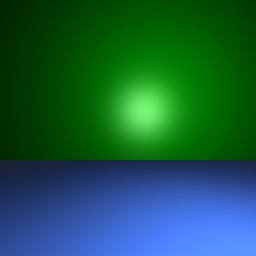
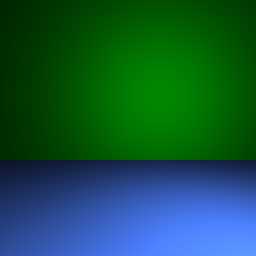
Nir's Update change and Scene 6

Changed region(s): [[0.4062, 0.2812, 0.7188, 0.5938]]

diff --git a/Exercise3/hw3.py b/Exercise3/hw3.py
@@ -40,29 +40,39 @@ def get_color(ray, ambient, obj, hitP, lights, objects, max_depth, level):
     sigma = 0
     normal = None
     if isinstance(obj, Sphere):
-        normal = normalize(hitP - obj.center)
+        vector_a = hitP - obj.center
+        normal = normalize(vector_a)
     else:
         normal = obj.normal
 
-    hitP = hitP + 0.01 * normal
-    for light in lights:
-        light_ray = light.get_light_ray(hitP)
-        I_L = light.get_intensity(hitP)
-        K_D = obj.diffuse
-        K_S = obj.specular
-        N = normal
-        L = light.get_light_ray(hitP).direction
-        V = normalize(ray.origin - hitP)
-        L_R = reflected(L, N)
-        s_j = 1
-        if light_ray.nearest_intersected_object(objects):
-            min_distance, nearest_object = light_ray.nearest_intersected_object(objects)
-            s_j = calculate_s_j(ray, hitP, min_distance, nearest_object)
-        sigma = sigma + s_j * ((K_D * I_L * np.dot(N, L)) + (K_S * I_L * (np.dot(V, L_R) ** (obj.shininess / 10))))
 
-    I_amb = ambient
-    K_A = obj.ambient
-    color = K_A * I_amb + sigma
+    calacNormalScal = 0.01 * normal
+    hitP = hitP + calacNormalScal
+
+    for light in lights:
+        light_Ray = light.get_light_ray(hitP)
+        Intensity_L = light.get_intensity(hitP)
+        K_Diffuse = obj.diffuse
+        K_Specular = obj.specular
+        Norm = normal
+        Ligh = light.get_light_ray(hitP).direction
+        VectorPreNormilized = ray.origin - hitP
+        VectorNormalized = normalize(VectorPreNormilized)
+        L_Reflected = reflected(Ligh, Norm)
+        s_j = 1
+        if light_Ray.nearest_intersected_object(objects):
+            min_distance, nearest_object = light_Ray.nearest_intersected_object(objects)
+            s_j = calculate_s_j(ray, hitP, min_distance, nearest_object)
+        calc1 = (K_Diffuse * Intensity_L * np.dot(Norm, Ligh))
+        calc2 = (K_Specular * Intensity_L * (np.dot(VectorNormalized, L_Reflected)))
+        calc3 = (obj.shininess / 10)
+        sigma = sigma + s_j * (calc1 + calc2 ** calc3)
+
+
+    I_ambient = ambient
+    K_ambient = obj.ambient
+    ambientMulti = K_ambient * I_ambient
+    color = ambientMulti+ sigma
 
     level = level + 1
     if level > max_depth:
@@ -70,26 +80,34 @@ def get_color(ray, ambient, obj, hitP, lights, objects, max_depth, level):
 
     # reflection
     # construct new_ray
-    new_direction = reflected(ray.direction, normal)
-    reflected_ray = Ray(hitP, new_direction)
+    reflected_ray = Ray(hitP, reflected(ray.direction, normal))
     # construct new hitP
     if reflected_ray.nearest_intersected_object(objects):
         min_distance, nearest_object = reflected_ray.nearest_intersected_object(objects)
-        new_hitP = reflected_ray.origin + min_distance * reflected_ray.direction
+        Calc4 = min_distance * reflected_ray.direction
+        new_HitPoint = reflected_ray.origin + Calc4
+
         if isinstance(nearest_object, Sphere):
-            normal = normalize(new_hitP - nearest_object.center)
+            vectorcalcpreNorm = new_HitPoint - nearest_object.center
+            normal = normalize(vectorcalcpreNorm)
         else:
             normal = nearest_object.normal
-        new_hitP = new_hitP + 0.01 * normal
+        scalernorm = 0.01 * normal
+        new_hitpoint = new_HitPoint + scalernorm
         # recursion call
-        color = color + obj.reflection * get_color(reflected_ray, ambient, nearest_object, new_hitP, lights, objects, max_depth, level)
+
+        oclor = get_color(reflected_ray, ambient, nearest_object, new_hitpoint, lights, objects, max_depth, level)
+        color = color + obj.reflection * oclor
     return color
 
 # TODO: Change function to our version
 def calculate_s_j(ray, hitP, min_distance, nearest_object):
     s_j = 1
-    distance_from_camera = np.linalg.norm(ray.origin - hitP)
-    if nearest_object and distance_from_camera > min_distance:
+    vectorprenorm = ray.origin - hitP
+    distance_from_camera = np.linalg.norm(vectorprenorm)
+
+    distancecheck = distance_from_camera > min_distance
+    if nearest_object and distancecheck:
         s_j = 0
 
     return s_j
@@ -98,6 +116,30 @@ def calculate_s_j(ray, hitP, min_distance, nearest_object):
 # TODO
 def your_own_scene():
     camera = np.array([0, 0, 1])
-    lights = []
-    objects = []
+
+    plane = Plane([0, 1, 0], [0, -0.3, 0])
+    plane.set_material([0.2, 0.2, 0.2], [0.2, 0.2, 0.2], [1, 1, 1], 1000, 0.5)
+
+    sphere_a = Sphere([-0.5, 0.2, -1], 0.5)
+    sphere_a.set_material([1, 0, 0], [1, 0, 0], [0.3, 0.3, 0.3], 100, 1)
+
+    sphere_b = Sphere([0.6, 0.5, -0.5], 0.8)
+    sphere_b.set_material([0, 1, 0], [0, 1, 0], [0.3, 0.3, 0.3], 100, 0.2)
+
+    cuboid = Cuboid(
+        [-1, -.75, -2],
+        [-1, -2, -2],
+        [1, -2, -1.5],
+        [1, -.75, -1.5],
+        [2, -2, -2.5],
+        [2, -.75, -2.5]
+    )
+
+    cuboid.set_material([1, 0, 0], [1, 0, 0], [0, 0, 0], 100, 0.5)
+    cuboid.apply_materials_to_faces()
+
+    light1 = PointLight(intensity=np.array([1, 1, 1]), position=np.array([1, 1.5, 1]), kc=0.1, kl=0.1, kq=0.1)
+    light2 = DirectionalLight(intensity= np.array([1, 1, 1]),direction=np.array([1,1,1]))
+    lights = [light1, light2]
+    objects = [sphere_a, sphere_b, cuboid, plane]
     return camera, lights, objects

diff --git a/Exercise3/helper_classes.py b/Exercise3/helper_classes.py
@@ -233,19 +233,18 @@ class Sphere(Object3D):
         ray_to_center = self.center - ray.origin
 
         # Calculate dot product of vector and ray direction
-        vector_dot_ray_direction = np.dot(ray_to_center, ray.direction)
+        vector_dot_product_ray_direction = np.dot(ray_to_center, ray.direction)
 
         # Calculate discriminant
-        discriminant = vector_dot_ray_direction ** 2 - np.sum(np.power(ray_to_center, 2)) + self.radius ** 2
+        discriminant = vector_dot_product_ray_direction ** 2 - np.sum(np.power(ray_to_center, 2)) + self.radius ** 2
 
         if discriminant < 0:
             return None
 
-        t1 = vector_dot_ray_direction - math.sqrt(discriminant)
-        t2 = vector_dot_ray_direction + math.sqrt(discriminant)
+        t1result = vector_dot_product_ray_direction - math.sqrt(discriminant)
+        t2result = vector_dot_product_ray_direction + math.sqrt(discriminant)
 
-        if t1 < 0 and t2 < 0:
+        if t1result < 0 and t2result < 0:
             return None
         else:
-            min_t = min(t1, t2)
-            return min_t, self
+            return min(t1result, t2result), self
